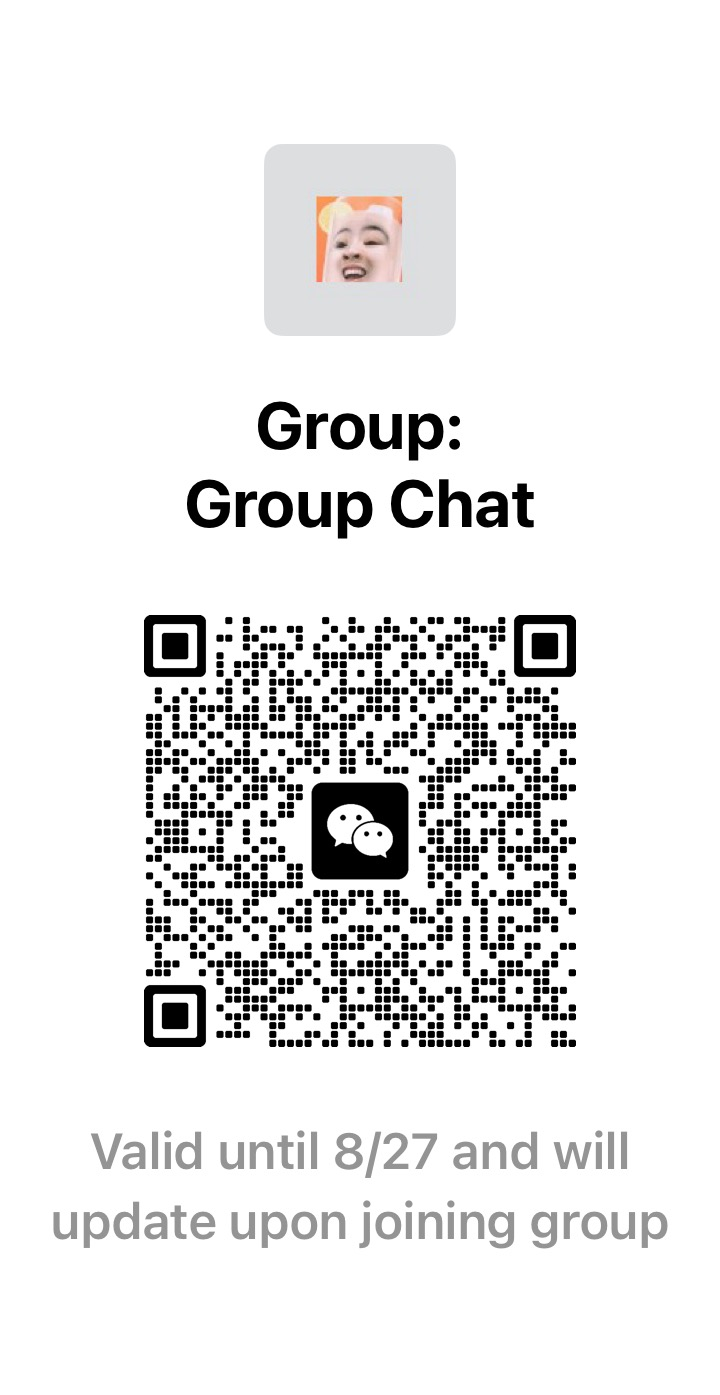
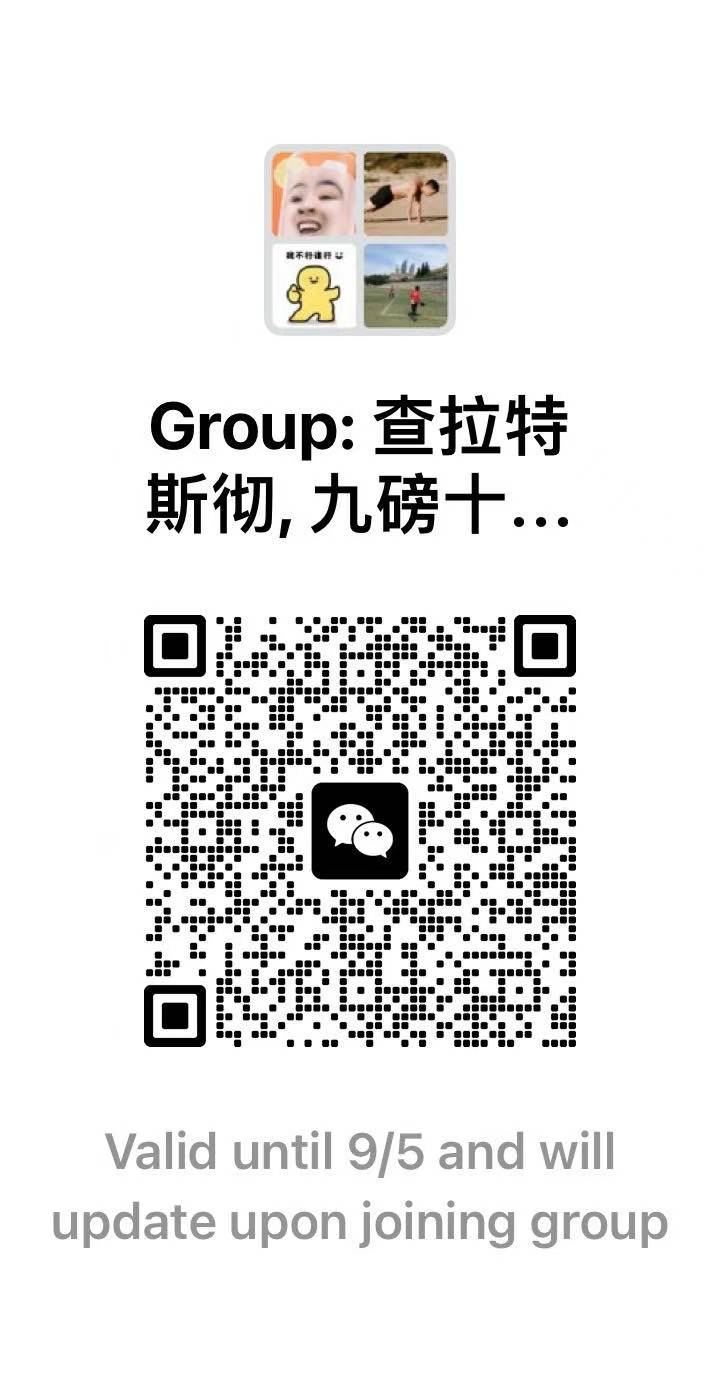
Add Discussions and refresh WeChat group QR code

diff --git a/README.md b/README.md
@@ -59,8 +59,10 @@ footage for 5-, 10- and 15-second examples. Measurements were recorded on a
 
 ## Community and feedback
 
-Join the community to discuss installation, usage and generation results, or
-contact the author directly on WeChat. Please include `X-MinimaxH3` in your
+Use [GitHub Discussions](https://github.com/PullMyBoots/X-MinimaxH3/discussions)
+for international installation help, hardware compatibility reports,
+benchmarks, ComfyUI/API questions and generated-video showcases. You can also
+contact the author directly on WeChat; please include `X-MinimaxH3` in your
 friend request.
 
 | Contact the author | Join the WeChat group |
@@ -68,7 +70,7 @@ friend request.
 | <img src="assets/community/wechat-contact.jpg" width="260" alt="Author WeChat QR code"> | <img src="assets/community/wechat-group.jpg" width="260" alt="X-MinimaxH3 WeChat group QR code"> |
 | Add `X-MinimaxH3` to the request | An updated QR code will be posted here after the current one expires |
 
-For reproducible bugs and feature requests, please use
+For reproducible bugs, please use
 [GitHub Issues](https://github.com/PullMyBoots/X-MinimaxH3/issues) so that the
 discussion and resolution remain searchable.
 

diff --git a/README.zh-CN.md b/README.zh-CN.md
@@ -53,14 +53,16 @@ X-MinimaxH3 是面向单张 NVIDIA SM89 GPU 优化的 MiniMax H3 本地视频生
 
 ## 交流与反馈
 
-欢迎加入交流群讨论安装、使用和生成效果，也可以添加作者微信直接反馈问题。
+国际用户可在 [GitHub Discussions](https://github.com/PullMyBoots/X-MinimaxH3/discussions)
+交流安装、硬件兼容性、性能测试、ComfyUI/API 接入和生成作品。中文用户欢迎
+加入微信群，也可以添加作者微信直接反馈。
 
 | 添加作者 | 加入微信群 |
 |:---:|:---:|
 | <img src="assets/community/wechat-contact.jpg" width="260" alt="作者微信二维码"> | <img src="assets/community/wechat-group.jpg" width="260" alt="X-MinimaxH3 微信交流群二维码"> |
 | 请备注 `X-MinimaxH3` | 群二维码过期后会在这里更新 |
 
-对于能够复现的 Bug 和功能建议，请优先提交到
+对于能够复现的 Bug，请优先提交到
 [GitHub Issues](https://github.com/PullMyBoots/X-MinimaxH3/issues)，方便长期检索问题和解决方案。
 
 ## 已验证平台
